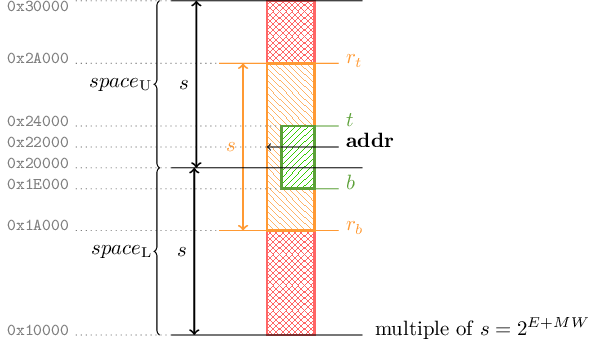
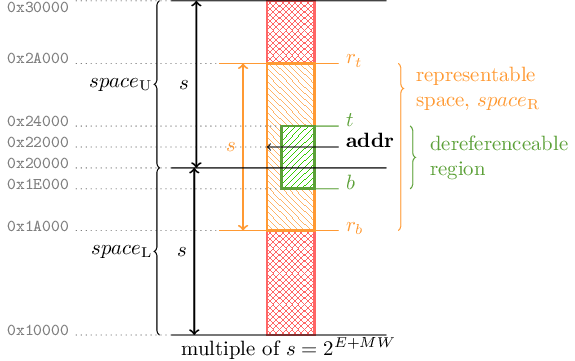
Check in code for generating correction figures
Thanks to Wes Filardo for the initial diagram that I butchered

diff --git a/src/cheri/img/correction-figs/capformat.tex b/src/cheri/img/correction-figs/capformat.tex
@@ -1,0 +1,122 @@
+\documentclass{standalone}
+
+\usepackage{amsmath}
+\usepackage{pgfplots}
+\usepackage{ifthen}
+\usetikzlibrary{calc}
+\usetikzlibrary{patterns,shapes}
+
+\colorlet{fred}{red!60}
+\colorlet{famber}{orange!60}
+\colorlet{fgreen}{olive!40!green}
+\colorlet{dred}{red!60}
+\colorlet{damber}{orange!80}
+\colorlet{dgreen}{olive!40!green}
+
+% Draw cap. Args:
+% #1: x offset in page
+% #2: label or nolabel
+% #3: amount to shift reprange and bounds (16ths)
+% #4: addr (16ths)
+\newcommand{\drawcap}[4]{
+  \coordinate (redbl) at (0+#1,0);
+  \coordinate (redtr) at (1+#1,7);
+  \coordinate (repbl) at (0+#1,{(4+#3) / 16 * 7 / 2});
+  \coordinate (reptr) at (1+#1,{(20+#3) / 16 * 7 / 2});
+  \coordinate (derbl) at (0.3+#1,{(8+#3) / 16 * 7 / 2}); % Not to scale, but close, so example labels don't merge
+  \coordinate (dertr) at (1+#1,{(14+#3) / 16 * 7 / 2});
+  \def\extextx{-4+#1};       % Example Text X
+  \def\sluseplx{-2+#1};    % Space {L,U} sep left X
+  \def\sluarrx{-1.5+#1};   % Space {L,U} arrow X
+  \def\srseplx{-1+#1};   % Space R sep left X
+  \def\srarrx{-0.5+#1};    % Space R arrow X
+  \def\rlabelx{-0.3+#1};   % R phase label x
+  \def\sdseplx{0.3+#1};    % Space D sep left X
+  \def\sdseprx{1.5+#1};    % Space D sep right X
+  \def\srseprx{1.5+#1};    % Space R sep right X
+  \def\sluseprx{2+#1};   % Space {L,U} sep right X
+  \def\srbracex{2.75+#1};  % Space R brace X
+  \def\sdbracex{3+#1};   % Space D brace X
+
+  % central rectangles
+  \filldraw[pattern=crosshatch, pattern color=fred, draw=dred, thick] (redbl) rectangle coordinate (redc) (redtr);
+  \draw[preaction={fill, white}, pattern=north west lines, pattern color=famber, draw=damber, thick] (repbl) rectangle (reptr);
+  \draw[preaction={fill, white}, pattern=north east lines, pattern color=fgreen, draw=dgreen, thick] (derbl) rectangle (dertr);
+
+  % dereferencable region (space D) labels
+  \coordinate (sdseplx) at (\sdseplx,0);
+  \coordinate (sdseprx) at (\sdseprx,0);
+  \draw[dgreen] (sdseplx |- derbl) -- (sdseprx |- derbl) node [pos=1,anchor=base west] {$b$};
+  \draw[dgreen] (sdseplx |- dertr) -- (sdseprx |- dertr) node [pos=1,anchor=base west] {$t$};
+  \coordinate (sdbracex) at (\sdbracex,0);
+  \ifthenelse{\equal{#2}{label}}{
+    \draw[dgreen,decoration={brace,mirror},decorate] (sdbracex |- derbl) -- (sdbracex |- dertr) node [midway,anchor=west,align=left,xshift=6pt] {dereferenceable\\region};
+  }{}
+
+  % represenatable region (space R) labels
+  \coordinate (srseplx) at (\srseplx,0);
+  \coordinate (srseprx) at (\srseprx,0);
+  \coordinate (srarrx) at (\srarrx,0);
+  \coordinate (addry) at (1+#1  ,#4 / 16 * 7 / 2);
+  \coordinate (srbracex) at (\srbracex,0);
+    \draw[<-] (repbl |- addry) -- (srseprx |- addry) node [pos=1,anchor=base west] {\textbf{addr}};
+  \ifthenelse{\equal{#2}{label}}{
+    \draw[damber] (srseplx |- repbl) -- (srseprx |- repbl) node [pos=1,anchor=base west] {$r_b$};
+    \draw[damber] (srseplx |- reptr) -- (srseprx |- reptr) node [pos=1,anchor=base west] {$r_t$};
+    \draw[<->,thick,damber] (srarrx |- repbl) -- (srarrx |- reptr) node [midway,left]{$s$};
+    \draw[damber,decoration={brace,mirror,aspect=.85},decorate] (srbracex |- repbl) -- (srbracex |- reptr) node [pos=.85,anchor=west,align=left,xshift=5pt] {representable\\space, $space_\text{R}$};
+  }{}
+
+  \coordinate (extextx) at (\extextx,0);
+
+  \ifthenelse{\equal{#2}{label}}{
+    %%% NOTE THESE ASSUME #3 == 6: the only current label case
+    \ifthenelse{\equal{#3}{6}}{}{\errmessage{Assumption on cap labels broken}}
+    \node[anchor=base east,gray] (exbase) at (extextx |- redbl) {\footnotesize\texttt{0x10000}};
+    \draw[dotted,gray] (exbase.base east) -- ({(\sluseplx,0)} |- redbl) ;
+    \node[anchor=base east,gray] (exsmid) at (extextx |- redc) {\footnotesize\texttt{0x20000}};
+    \draw[dotted,gray] (exsmid.base east) -- ({(\sluseplx,0)} |- redc);
+    \node[anchor=north,gray,inner sep=0pt] (exshi) at (redtr -| exsmid) {\footnotesize\texttt{0x30000}};
+    \draw[dotted,gray] (exshi.north east -| exsmid.east) -- ({(\sluseplx,0)} |- redtr);
+    \node[anchor=base east,gray] (exrb) at (extextx |- repbl) {\footnotesize\texttt{0x1A000}};
+    \draw[dotted,gray] (exrb.base east) -- ({(\srseplx,0)} |- repbl);
+    \node[anchor=base east,gray] (exrb) at (extextx |- derbl) {\footnotesize\texttt{0x1E000}};
+    \draw[dotted,gray] (exrb.base east) -- ({(\sdseplx,0)} |- derbl);
+    \node[anchor=base east,gray] (exrb) at (extextx |- addry) {\footnotesize\texttt{0x22000}};
+    \draw[dotted,gray] (exrb.base east) -- ({(\sdseplx,0)} |- addry);
+    \node[anchor=base east,gray] (exrb) at (extextx |- dertr) {\footnotesize\texttt{0x24000}};
+    \draw[dotted,gray] (exrb.base east) -- ({(\sdseplx,0)} |- dertr);
+    \node[anchor=base east,gray] (exrb) at (extextx |- reptr) {\footnotesize\texttt{0x2A000}};
+    \draw[dotted,gray] (exrb.base east) -- ({(\srseplx,0)} |- reptr);
+  }{}
+}
+
+% Draw non-per-cap annotations. Args:
+% #1 Width of figure to annotate
+% #2 label or nolabel
+\newcommand{\drawframe}[2]{
+  \def\sluseplx{-2};    % Space {L,U} sep left X
+  \def\sluarrx{-1.5};   % Space {L,U} arrow X
+  \def\sluseprx{#1};   % Space {L,U} sep right X
+  \coordinate (firstredbl) at (0,0);
+  %% space L,U partiton lines
+  \draw[black] ({(\sluseplx,0)} |- firstredbl) -- ({(\sluseprx,0)} |- firstredbl);
+  \draw[black] ({(\sluseplx,0)} |- redc)  -- ({(\sluseprx,0)} |- redc);
+  \draw[black] ({(\sluseplx,0)} |- redtr) -- ({(\sluseprx,0)} |- redtr);
+  \draw[<->,thick,black,xshift=-.5pt] ({(\sluarrx,0)} |- redbl) -- ({(\sluarrx,0)} |- redc) node [midway,left] {$s$} ;
+  \draw[<->,thick,black,xshift=.5pt] ({(\sluarrx,0)} |- redc) -- ({(\sluarrx,0)} |- redtr) node [midway,left] {$s$} ;
+  \coordinate (multextbase) at ({(\sluseprx,0)} |- redbl);
+  \node[anchor=north east,inner sep=1pt,black,align=left] at ($(multextbase)+(0.25,0)$) {multiple of $s = 2^{E+MW}$};
+  %\coordinate (rlabelx) at (\rlabelx,0);
+  %\draw[<->,thick,dashed,damber] (rlabelx |- redbl) -- (rlabelx |- repbl) node [midway,left=-2pt] {\footnotesize $R 2^{E}$} ;
+
+  \def\slubracex{-2.25};  % Space {L,U} brace X
+  \coordinate (spacebraceb) at ({(\slubracex,0)}  |- redbl);
+  \coordinate (spacebracem) at (spacebraceb |- redc);
+  \coordinate (spacebracet) at (spacebraceb |- redtr);
+  \ifthenelse{\equal{#2}{label}}{
+  % space label braces
+    \draw[decoration={brace},decorate] (spacebraceb) -- (spacebracem) node [midway,left] {$space_\text{L}$};
+    \draw[decoration={brace},decorate] (spacebracem) -- (spacebracet) node [midway,left] {$space_\text{U}$};
+  }{}
+}

diff --git a/src/cheri/img/correction-figs/capformat-correction-cases.tex b/src/cheri/img/correction-figs/capformat-correction-cases.tex
@@ -1,0 +1,25 @@
+\input{capformat.tex}
+\begin{document}
+  \begin{tikzpicture}[x=\linewidth/24,y=\linewidth/24]
+    \drawcap{0}{nolabel}{0}{17.5}
+    \coordinate (atext) at ({(0.5,7)} |- {(0.5, 7)});
+    \node[anchor=south, inner sep=1pt,black,align=center] at (atext) {$c_t = -1$\\$c_b = -1$};
+    \drawcap{5}{nolabel}{5.5}{17.5}
+    \coordinate (btext) at ({(5.5,7)} |- {(0.5, 7)});
+    \node[anchor=south, inner sep=1pt,black,align=center] at (btext) {$c_t = 0$\\$c_b = -1$};
+    \drawcap{10}{nolabel}{11}{17.5}
+    \coordinate (ctext) at ({(10.5,7)} |- {(0.5, 7)});
+    \node[anchor=south, inner sep=1pt,black,align=center] at (ctext) {$c_t = 0$\\$c_b = 0$};
+    \drawcap{15}{nolabel}{0}{11}
+    \coordinate (dtext) at ({(15.5,7)} |- {(0.5, 7)});
+    \node[anchor=south, inner sep=1pt,black,align=center] at (dtext) {$c_t = 0$\\$c_b = 0$};
+    \drawcap{20}{nolabel}{5.5}{11}
+    \coordinate (etext) at ({(20.5,7)} |- {(0.5, 7)});
+    \node[anchor=south, inner sep=1pt,black,align=center] at (etext) {$c_t = 1$\\$c_b = 0$};
+    \drawcap{25}{nolabel}{8.5}{14}
+    \coordinate (ftext) at ({(25.5,7)} |- {(0.5, 7)});
+    \node[anchor=south, inner sep=1pt,black,align=center] at (ftext) {$c_t = 1$\\$c_b = 1$};
+  
+    \drawframe{27.5}{nolabel}
+  \end{tikzpicture}
+\end{document}

diff --git a/src/cheri/img/correction-figs/capformat-correction-illustration.tex b/src/cheri/img/correction-figs/capformat-correction-illustration.tex
@@ -1,0 +1,7 @@
+\input{capformat.tex}
+\begin{document}
+  \begin{tikzpicture}[x=\linewidth/15,y=\linewidth/15]
+    \drawcap{0}{label}{6}{18}
+    \drawframe{2.5}{label}
+  \end{tikzpicture}
+\end{document}